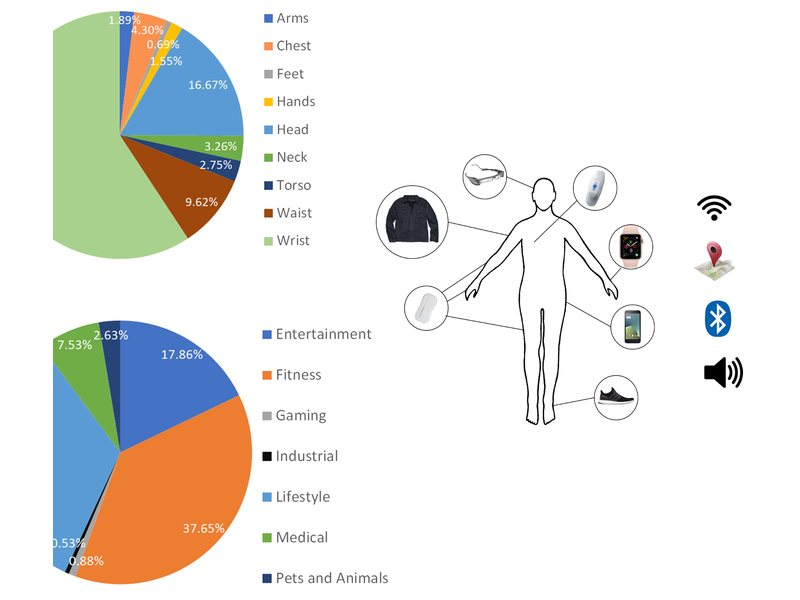
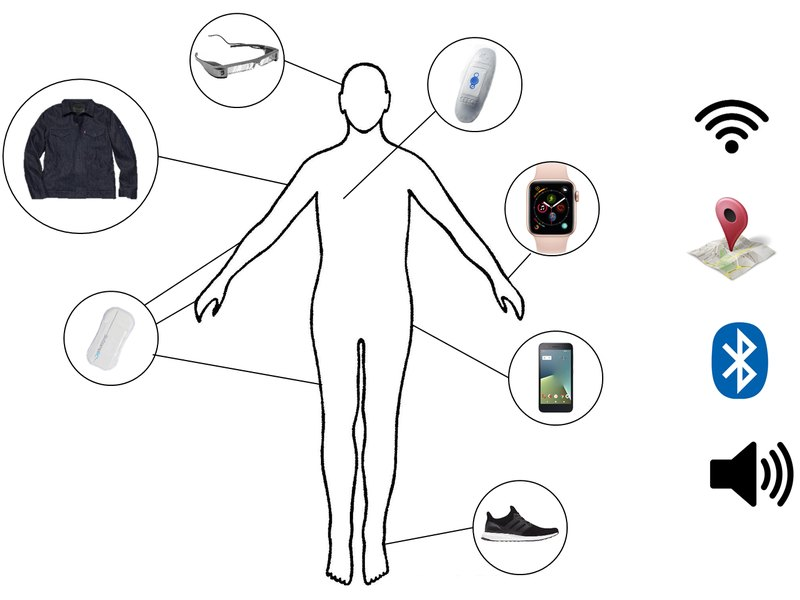
Selected Publications heading; drop equal-contribution marks; add HAR and WHC figures
Claude-Session: https://claude.ai/code/session_017eufPyPBLPrpsvLqKg83H6

diff --git a/index.html b/index.html
@@ -59,8 +59,7 @@ layout: null
     </section>
 
     <section class="pubs" aria-labelledby="pubs-h">
-      <h2 id="pubs-h">Publications</h2>
-      <p class="pubs-key">* Equal contribution</p>
+      <h2 id="pubs-h">Selected Publications</h2>
       {% assign groups = site.data.publications | group_by: "year" | sort: "name" | reverse %}
       {% for group in groups %}
       <div class="year-group">
@@ -77,7 +76,7 @@ layout: null
             </div>
             <div class="pub-text">
               <p class="pub-title">{{ pub.title }}</p>
-              <p class="pub-authors">{% for a in pub.authors %}{% if site.author_names contains a %}<span class="me">{{ a }}</span>{% else %}{{ a }}{% endif %}{% if pub.equal contains a %}*{% endif %}{% unless forloop.last %}, {% endunless %}{% endfor %}</p>
+              <p class="pub-authors">{% for a in pub.authors %}{% if site.author_names contains a %}<span class="me">{{ a }}</span>{% else %}{{ a }}{% endif %}{% unless forloop.last %}, {% endunless %}{% endfor %}</p>
               <p class="pub-venue"><em>{{ pub.venue }}</em>, {{ pub.year }}</p>
               {% if pub.note %}<p class="pub-note">{{ pub.note }}</p>{% endif %}
               {% if pub.links %}

diff --git a/assets/css/style.css b/assets/css/style.css
@@ -121,7 +121,6 @@ section > h2 {
 }
 
 /* ---------- Publications ---------- */
-.pubs-key { font-family: var(--sans); font-size: 0.85rem; color: var(--muted); margin: -0.9rem 0 1.4rem; }
 .year-group { position: relative; margin-bottom: 0.5rem; }
 .year {
   font-size: 0.95rem;

diff --git a/README.md b/README.md
@@ -16,8 +16,7 @@ GitHub builds it with Jekyll on every push; there is nothing to install.
 **Add a paper:** copy an entry in `_data/publications.yml` to the top, update the fields,
 and put an 800×600 figure in `assets/img/pubs/`. Entries without an `image` show a
 labelled tile using `short`. Your name is highlighted automatically in author lists
-(both spellings are listed under `author_names` in `_config.yml`); list co-first
-authors under `equal` to mark them with *.
+(both spellings are listed under `author_names` in `_config.yml`).
 
 **Add a photo or CV:** put the file in `assets/img/` or `assets/`, then set `photo:` or
 `cv:` in `_config.yml`. Links left empty are hidden.
